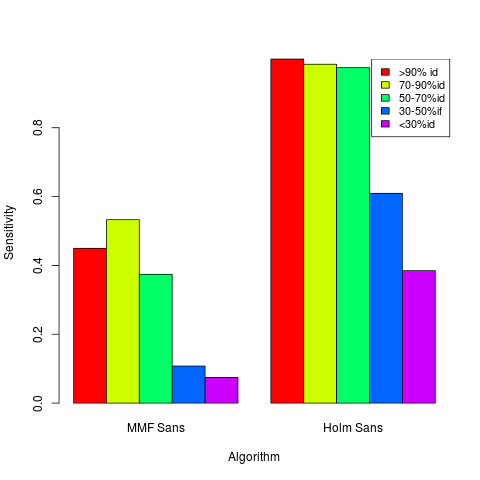
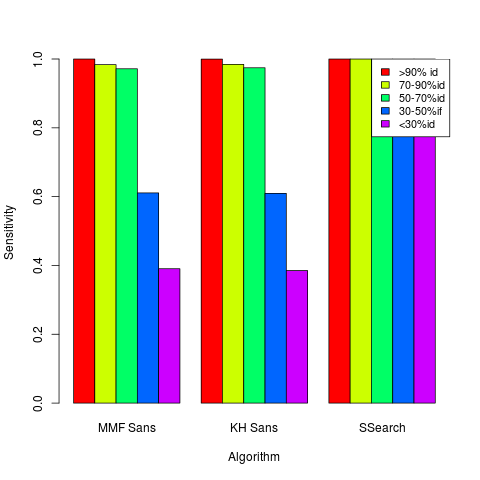
BEHOLD THE BARPLOTS! und Kleinigkeiten...

diff --git a/ausarbeitung.tex b/ausarbeitung.tex
@@ -8,13 +8,14 @@
 \usepackage{amsmath}
 \usepackage{hyperref}
 \usepackage{listings}
+\usepackage[fleqn]{amsmath}
 
 %\usepackage{algorithmic}
 \usepackage{cite}
 
 \setlength{\parindent}{0pt}
 
-\title{Proteinsequenz-Vergleich mit \emph{KSEARCH} und \emph{SANS}}
+\title{Proteinsequenz-Vergleich mit KSEARCH und SANS}
 \author{Meike Bruns, Florian Markowsky, Michael Spohn}
 
 \begin{document}
@@ -22,7 +23,11 @@
 \maketitle
 \thispagestyle{empty}
 \begin{abstract}
-In unserer Projektarbeit beschäftigten wir uns mit der Implementierung zweier Algorithmen zur Ähnlichkeitsbewertung von Proteinsequenzen, \emph{SANS} und \emph{KSEARCH}, innerhalb der GenomeTools Umgebung. Die von J. Patrik Koskinen und Liisa Holm entwickelten Algorithmen weisen Proteinpaaren aufgrund von gemeinsam enthaltenen $k$-meren (\emph{KSEARCH}) bzw. von Nachbarschaften der Proteinsuffixe im Suffixarray (\emph{SANS}) Ähn\-lichkeitsscores zu. Koskinen und Holm erreichten so bei kurzen Laufzeiten eine mit BLAST vergleichbare Sensitivität bei Proteinen mit 50-100\% Sequenzidentität. Unsere Implementierung der Algorithmen liefert mit der Originalimplementierung vergleichbare Ergebnisse, die von Koskinen und Holm erreichten Laufzeiten konnten jedoch nicht reproduziert werden.
+In unserer Projektarbeit haben wir innerhalb der GenomeTools Umgebung  zwei Algorithmen zur Ähnlichkeitsbewertung von Proteinsequenzen implementiert, \emph{SANS} und \emph{KSEARCH}. 
+Die von J. Patrik Koskinen und Liisa Holm entwickelten Algorithmen weisen Proteinpaaren aufgrund von gemeinsam enthaltenen $k$-meren (\emph{KSEARCH}) bzw. von Nachbarschaften der 
+Proteinsuffixe im Suffixarray (\emph{SANS}) Ähn\-lichkeitsscores zu. Koskinen und Holm erreichten so bei kurzen Laufzeiten eine mit BLAST vergleichbare Sensitivität bei 
+Proteinen mit 50-100\% Sequenzidentität. Unsere Implementierung der Algorithmen liefert mit der Originalimplementierung vergleichbare Ergebnisse, die Laufzeiten von Koskinen und 
+Holm konnten jedoch nicht erreicht werden.
 \end{abstract}
 \newpage
 
@@ -34,15 +39,17 @@ In unserer Projektarbeit beschäftigten wir uns mit der Implementierung zweier A
 
 Eine bei der Sequenzanalyse am häufigsten anfallenden Aufgaben ist der Vergleich
 von Sequenzen. 
-Sowohl bei DNA als auch bei Proteinsequenzen geben Sequenzvergleiche Aufschluss über die Ähnlichkeiten von Sequenzen, die dazu herangezogen werden, Verwandschaftsbeziehungen zwischen den einzelnen Sequenzen oder konservierte Regionen zu ermitteln. Bei unbekannten Proteinsequenzen lassen sich so beispielsweise Vorhersagen zur Funktion oder zur Struktur machen. Da exakte Sequenzvergleiche sehr zeitaufwendig sind, wurden verschiedene weniger exakte, dafür schnellere Algorithmen entwickelt.\\
+Sowohl bei DNA als auch bei Proteinsequenzen geben Sequenzvergleiche Aufschluss über die Ähnlichkeiten von Sequenzen, die beispielsweise dazu herangezogen werden, Verwandschaftsbeziehungen 
+zwischen den einzelnen Sequenzen oder konservierte Regionen zu ermitteln. So lassen sich bei unbekannten Proteinsequenzen  Vorhersagen zur Funktion oder zur Struktur machen. 
+Da exakte Sequenzvergleiche sehr zeitaufwendig sind, wurden verschiedene weniger exakte, dafür schnellere Algorithmen entwickelt.\\
 Viele dieser Algorithmen basieren auf Sequenzalignments, wie der FASTA-Al\-gorithmus \cite{FASTA} oder BLAST \cite{BLAST}, der sich als Standard für den Proteinvergleich etabliert hat.
-Andere Algorithmen, wie z.B. USEARCH \cite{USEARCH} berechnen Ähnlichkeiten von Sequenzen dagegen unabhängig von Alignments anhand der Ähnlichkeiten von Feature-Vektoren. 
+Andere Algorithmen, wie z.B. USEARCH \cite{USEARCH}, berechnen Ähnlichkeiten von Sequenzen dagegen unabhängig von Alignments anhand der Ähnlichkeiten von Feature-Vektoren. 
 Feature-Vektoren einer Sequenz können z.B. die in ihr enthaltenen k-mere oder Substrings sein. 
 Um die Ähnlichkeit zweier Sequenzen zu bestimmen, werden ihre Feature-Vektoren verglichen und daraus ein Ähnlichkeits-Score ermittelt.\\
 Während alignmentbasierte Methoden für viele Zwecke eingesetzt werden können, sind Feature-Vektor basierte Scores hauptsächlich in Anwendungsbereichen wie der nearest-neighbor-Analyse vorteilhaft. 
 Dadurch, dass sie ganz ohne Alignment auskommen, sind sie meist sehr schnell und lassen sich daher auch für große Datenmengen gut verwenden. 
 Dass die berechneten Scores keine detaillierten Informationen darüber enthalten,
-wo zwei Sequenzen gleich und wo verschieden sind, ist in nearest-neighbor-Analysen wie z.B. dem Clustering kein Nachteil. 
+in welchen Bereichen zwei Sequenzen gleich und in welchen verschieden sind, ist in nearest-neighbor-Analysen wie z.B. dem Clustering kein Nachteil. 
 Hier ist vor allem von Interesse, dass hohe Scores ein verlässlicher Indikator für eine hohe Ähnlichkeit sind.\\
 Im folgenden stellen wir unsere Implementierung von zwei von J. Patrik Koskinen und Liisa Holm entwickelten Algorithmen - \emph{SANS} (Suffix Array Neighborhood Search) und \emph{KSEARCH} - vor, die Feature-Vektor basierte Scores für Protein-Sequenzpaare ermitteln. Koskinen und Holm erreichten mit \emph{SANS} für Proteinsequenzen, deren Sequenzidentität zwischen 50 und 100\% liegt, eine mit Blast vergleichbare Sensitivität. In Abhängigkeit vom gewählten $k$-Wert konnten mit \emph{KSEARCH} ähnliche Sensitivitätswerte erreicht werden. Dieses Ergebnis ist für die Vergleiche von Proteinsequenzen überraschend, denn wegen der hohen Mutationswahrscheinlichkeiten einzelner Aminosäuren werden in BLAST zur Bestimmung von Ähnlichkeiten zwischen Proteinen Substitutionsmatrizen verwendet, die die Mutationswahrscheinlichkeiten der Aminosäuren in die Ähnlich\-keitsberechnung einbeziehen. 
 Diese Anpassung ist bei den vorgestellten Algorithmen nicht möglich.
@@ -61,18 +68,28 @@ Der in \cite{Holm} vorgestellte \emph{KSEARCH}-Algorithmus ermittelt Ähnlichkei
 mit
 \emph{ $G_k(query)(w)$} = Häufigkeit des Vorkommens des $k$-mers $w$ im query-Protein\\ \\
 
-Um durch kurze Tandem Repeats verursachte, künstlich erhöhte Scores zu vermeiden, werden, wie in \cite{Holm}, $k$-mere, die an 1., 2., und 3., bzw. an 1., 3., und 5. Position dieselben Zeichen enthalten, nicht bei der Berechnung des \emph{KSEARCH}-Scores berücksichtigt.\\
-Koskinen und Holm benutzen zu Berechnung der \emph{KSEARCH} - Scores Suffixarrays, und erreichen so eine theoretische Laufzeitkomplexität von $O(|q_1..q_n| \cdot |d_1..d_n|)$, also in der Gesamtlänge der query- und database-Proteine. Laut Koskinen und Holm liegt der Vorteil der Implementierung mit Suffixarrays darin, dass der Parameter für $k$ frei gewählt werden kann. \\
+Um durch kurze Tandem Repeats verursachte, künstlich erhöhte Scores zu vermeiden, werden, wie in \cite{Holm}, $k$-mere, die an 1., 2., und 3., bzw. an 1., 3., und 5. Position die selben Zeichen enthalten, 
+bei der Berechnung des \emph{KSEARCH}-Scores nicht berücksichtigt.\\
+Koskinen und Holm benutzen zu Berechnung der \emph{KSEARCH} - Scores Suffixarrays, und erreichen so eine theoretische Laufzeitkomplexität von $O(|q_1..q_n| \cdot |d_1..d_n|)$, 
+also linear in der Gesamtlänge der query- und database-Proteine. Laut Koskinen und Holm liegt der Vorteil der Implementierung mit Suffixarrays darin, dass der Parameter für $k$ frei gewählt werden kann. \\
 Mit der q-gram-Distanz existiert bereits ein Modell, dass auf der Idee basiert,
 Sequenzpaaren anhand vom gemeinsamen $k$-meren (bzw. $q$-Worten) Änhnlichkeits\-scores zuzuweisen. 
-Im Gegensatz zum \emph{KSEARCH} Score ergibt sich der Score bei der q-gram-Distanz aus der Summe der Differenzbeträge $|G_q(query)(w) - G_q(database)(w)|$ der Häufigkeiten der $k$-mere im query- und database-Protein. 
+Im Gegensatz zum \emph{KSEARCH} Score ergibt sich der Score bei der q-gram-Distanz aus der Summe der Differenzbeträge $|G_q(query)(w) - G_q(database)(w)|$ der Häufigkeiten der $k$-mere im query- und 
+database-Protein. 
 Bei der q-gram-Distanz konnte durch die Verwendung von $q$-Wort Profilen eine
 Laufzeit von $O(|n|+|m|+\mathcal{A}^q)$ erreicht werden, wobei $|m|$ und $|n|$
-die Längen der Proteine, $\mathcal{A}^q$ die Anzahl der möglichen q-Worte
+die Längen der Proteine und $\mathcal{A}^q$ die Anzahl der möglichen q-Worte
 darstellen \cite{GSA}. Es erschien uns daher sinnvoll, q-Wort-Profile auch für die Berechnung von \emph{KSEARCH}-Scores zu nutzen.\\
-Für das Erstellen eines $k$-mer- bzw. q-Wort-Profils wird jedes mögliche $k$-mer durch einen Integerwert codiert. Ein Array von der Größe $\mathcal{A}^k$ enthält an jeder Position $i$ die Anzahl des dazugehörigen $k$-mers mit dem Integercode $i$, und wird daher mit Null initialisiert. Durch eine geschickte Codierung können die Codes der einzelnen, in der Sequenz enthaltenen $k$-mere in konstanter Zeit ermittelt werden, so dass die Berechnung der $k$-mer-Profile in ${O(|q_1..q_n|)}$ erfolgt. Da der \emph{KSEARCH}-Score zur Bewertung von Proteinsequenzpaaren genutzt werden soll, ergibt sich bei der Verwendung von Arrays zur Speicherung der $k$-mer Profile der erforderliche Speicherplatz von $\mathcal{A}^k = 20^k$ pro Profil. Darüber hinaus sind die Proteinsequenzen relativ kurz, so dass die berechneten $k$-mer Profile nur spärlich besetzt sind. Daher nutzen wir Hashes, um die $k$-mer-Profile zu speichern. \\
-Unsere Implementierung des \emph{KSEARCH}-Algorithmus erhält die durch das GenomeTool encseq encode konkatenierten und komprimierten query- und database-Proteinsequenzen als Eingabe. Mit dem GenomeTools Modul GtKmercodeiterator werden zunächst die $k$-mere jedes query-Proteins extrahiert und mit der GenomeTools Funktion GtHashmap in einem Hash gespeichert.
-Dann wird für jedes database-Protein das $k$-mer-Profil als Hash angelegt und der \emph{KSEARCH}-Score mit allen query-Poteinen ermittelt und ausgegeben. Da das $k$-mer-Profil des database-Proteins nicht noch einmal gebraucht wird, braucht es nicht gespeichert zu werden. Das Berechnen des $k$-mer-Profils eines database-Proteins $d$ geschieht in $O(|d|)$, für alle database-Proteine also in $O(d_1..d_n)$. Dazu kommt die Berechnung der \emph{KSEARCH}-Scores, die, da das $k$-mer Profil als Hash vorliegt, für ein einzelnes Proteinpaar linear in der Anzahl unterschiedlicher $k$-mere im database-Protein $O(kVariety(d))$ ist, für alle Proteinpaare also in $O(|D| \cdot |Q| \cdot kVariety(d))$ liegt. Insgesamt erhalten wir also eine Laufzeitkomplexität von $O(|q_1..q_n|+|d_1..d_n|+|D| \cdot |Q| \cdot kVariety(d))$.
+Für das Erstellen eines $k$-mer- bzw. q-Wort-Profils wird jedes mögliche $k$-mer durch einen Integerwert codiert. Ein Array von der Größe $\mathcal{A}^k$ enthält an jeder Position $i$ die 
+Anzahl des dazugehörigen $k$-mers mit dem Integercode $i$, und wird daher mit Null initialisiert. Durch eine geschickte Codierung können die Codes der einzelnen, in der Sequenz enthaltenen $k$-mere in 
+konstanter Zeit ermittelt werden, so dass die Berechnung der $k$-mer-Profile in ${O(|q_1..q_n|)}$ erfolgt. Da der \emph{KSEARCH}-Score zur Bewertung von Proteinsequenzpaaren genutzt werden soll, 
+ergibt sich bei der Verwendung von Arrays zur Speicherung der $k$-mer Profile der erforderliche Speicherplatz von $\mathcal{A}^k = 20^k$ pro Profil. Darüber hinaus sind die Proteinsequenzen relativ kurz, 
+so dass die berechneten $k$-mer Profile nur spärlich mit Werten ungleich $0$ besetzt sind. Daher nutzen wir Hashes, um die $k$-mer-Profile zu speichern. \\
+Unsere Implementierung des \emph{KSEARCH}-Algorithmus erhält die durch das GenomeTool encseq encode konkatenierten und komprimierten query- und database-Proteinsequenzen als Eingabe. 
+Mit dem GenomeTools Modul GtKmercodeiterator werden zunächst die $k$-mere jedes query-Proteins extrahiert und mit der GenomeTools Funktion GtHashmap in einem Hash gespeichert.
+Dann wird für jedes database-Protein das $k$-mer-Profil als Hash angelegt und der \emph{KSEARCH}-Score mit allen query-Poteinen ermittelt und ausgegeben. 
+Da das $k$-mer-Profil des database-Proteins nicht noch einmal gebraucht wird, braucht es nicht gespeichert zu werden. Das Berechnen des $k$-mer-Profils eines database-Proteins $d$ geschieht in $O(|d|)$, 
+für alle database-Proteine also in $O(|d_1..d_n|)$. Dazu kommt die Berechnung der \emph{KSEARCH}-Scores, die, da das $k$-mer Profil als Hash vorliegt, für ein einzelnes Proteinpaar linear in der Anzahl unterschiedlicher $k$-mere im database-Protein $O(kVariety(d))$ ist, für alle Proteinpaare also in $O(|D| \cdot |Q| \cdot kVariety(d))$ liegt. Insgesamt erhalten wir also eine Laufzeitkomplexität von $O(|q_1..q_n|+|d_1..d_n|+|D| \cdot |Q| \cdot kVariety(d))$.
 
 
 
@@ -91,7 +108,8 @@ Dann wird für jedes database-Protein das $k$-mer-Profil als Hash angelegt und d
         \State output $KSEARCH(d,q)$
       \EndFor \Comment $\mathbf{O(|Q| \cdot kVariety(d))}$
     \EndFor   \Comment $\mathbf{O(|d_1..d_n|+|D| \cdot |Q| \cdot kVariety(d))}$  
-  \EndFunction \Comment overall time complexity: $\mathbf{O(|q_1..q_n|+|d_1..d_n|+|D| \cdot |Q| \cdot kVariety(d))}$
+  \EndFunction 
+  \Comment overall time complexity: $\mathbf{O(|q_1..q_n|+|d_1..d_n|+|D| \cdot |Q| \cdot kVariety(d))}$
 \end{algorithmic}
 \end{algorithm}
 
@@ -100,7 +118,7 @@ Dann wird für jedes database-Protein das $k$-mer-Profil als Hash angelegt und d
 
 Der \emph{SANS}-Algorithmus bewertet Proteinpaare, deren Suffixe längste gemeinsame
 Präfixe haben, mit einem positiven Score. Suffixarrays haben die Eigenschaft,
-dass Suffixe, die im Suffixarray nebeneinanderliegen, typischerweise lange
+dass Suffixe, die darin nebeneinanderliegen, typischerweise lange
 gemeinsame Präfixe haben. Für die  \emph{SANS}-Scores wird diese Eigenschaft dahingehend
 genutzt, dass Proteinpaare von query- und database-Proteinen, deren Suffixe im
 Suffixarray nahe beieinander liegen, mit einem hohen Score bewertet werden.\\
@@ -124,9 +142,9 @@ Formal berechnet sich der \emph{SANS(query,database)} also folgendermaßen:\\
 \end{equation*}
 
 mit\\
-\emph{suffixe\_q} - alle Suffixe aus $q$,\\
-\emph{position$_D$(s)} - theoretische Position des Suffixes $s$ in \emph{Suffixarray$_D$} \\
-\emph{Suffixarray$_D[x]$.protein} - database-Protein, zu dem der Suffix an der Position $x$ des \emph{Suffixarray$_D$} gehört. \\
+\hspace{1pc} \emph{suffixe\_q} - alle Suffixe aus $q$,\\
+\hspace{1pc} \emph{position$_D$(s)} - theoretische Position des Suffixes $s$ in \emph{Suffixarray$_D$} \\
+\hspace{1pc} \emph{Suffixarray$_D[x]$.protein} - database-Protein, zu dem der Suffix an der Position $x$ des \emph{Suffixarray$_D$} gehört. \\
 
 und der Identitätsfunktion\\
 
@@ -135,7 +153,7 @@ id(a,b)=\begin{cases}
   1,  & if~a=b\\
   0,  & if~a\ne b\\
 \end{cases}
-\end{equation*}
+\end{equation*}.
 
 Auch bei der Berechnung des \emph{SANS}-Scores werden Suffixe, die an 1., 2., und 3., bzw. an 1., 3., und 5. Position dieselben Zeichen enthalten, nicht bei der Berechnung des Scores berücksichtigt, um eine künstliche Erhöhung des Scores durch kurze Tandem Repeats zu vermeiden.\\
 Koskinen und Holm setzen die Fenstergröße $h$ standardmäßig auf die Größe der als
@@ -152,10 +170,10 @@ Die Suffixarrays stellen die Eingabe für unseren  \emph{SANS}-Algorithmus dar.
 Da die endgültigen Scores erst feststehen, wenn alle Suffixe im
 \emph{Suffixarray$_Q$}
 verarbeitet wurden, muss zur Ermittelung der Scores eine Scorematrix der Größe
-$|Q|\cdot|D|$ angelegt und mit Null initialisiert werden, wobei $|Q|$ die Anzahl
-der query-, $|D|$ die Anzahl der database-Proteine beschreibt. Dies benötigt
+$|Q|\cdot|D|$ angelegt, mit Null initialisiert und im Speicher gehalten werden, wobei $|Q|$ die Anzahl
+der query- und $|D|$ die Anzahl der database-Proteine beschreibt. Dies benötigt
 $O(|Q|\cdot|D|)$ Zeit. Jetzt ermitteln wir die Positionen der Suffixe
-i\emph{Suffix$_{qx}$} in \emph{Suffixarray$_D$}. Dazu laufen wir einmal durch
+\emph{Suffix$_{qx}$} in \emph{Suffixarray$_D$}. Dazu laufen wir einmal durch
 den gesamten \emph{Suffixarray$_Q$}. Da die Suffixe in den Suffixarrays
 lexikographisch geordnet sind, brauchen wir nicht für jeden \emph{Suffix$_{qx}$}
 durch den gesamten \emph{Suffixarray$_D$} zu laufen, sondern können mit der
@@ -164,7 +182,7 @@ der wir auch \emph{Suffix$_{qx-1}$} eingeordnet haben. Diese Position merken wir
 uns in der Variablen \emph{position}. Damit laufen wir einmal durch den gesamten
 \emph{Suffixarray$_Q$} sowie insgesamt genau einmal durch den gesamten
 \emph{Suffixarray$_D$} und bleiben so in $O(|q_0..q_n| + |d_0..d_n|)$.
-Zusätzlich müssen immer, wenn wir eine Position gefunden haben, die Scores $2
+Zusätzlich müssen immer, wenn wir eine Position gefunden haben, die Scores von $2
 \cdot h$ Proteinpaaren in konstanter Zeit aktualisiert werden, so dass sich für
 die Berechnung der Scores eine Laufzeit von ${O(|q_0..q_n|\cdot2h +
 |d_0..d_n|)}$ ergibt. Zusammen erhalten wir also eine Laufzeitkomplexität von ${O(|q_0..q_n|\cdot2h + |d_0..d_n|+|Q|\cdot|D|)}$
@@ -185,7 +203,8 @@ die Berechnung der Scores eine Laufzeit von ${O(|q_0..q_n|\cdot2h +
          \State update SANS-scores for  $(q_x,d_x)$
        \EndFor \Comment $\mathbf{O(2h)}$
      \EndFor \Comment $\mathbf{O(|q_0..q_n|\cdot2h + |d_0..d_n|)}$
-    \EndFunction  \Comment{overall time complexity:$\mathbf{O(|q_0..q_n|\cdot2h + |d_0..d_n|+|Q|\cdot|D|)}$}   \\
+    \EndFunction  
+    \Comment{overall time complexity:$\mathbf{O(|q_0..q_n|\cdot2h + |d_0..d_n|+|Q|\cdot|D|)}$}   \\
     
     \Function{findPosition}{$suffix$, $suffixarray_D$, $position$}
       \For{$i$ in $position$..$suffixarray_D$.length}
@@ -201,8 +220,9 @@ die Berechnung der Scores eine Laufzeit von ${O(|q_0..q_n|\cdot2h +
 
 \subsubsection{GenomeTools}
 
-Die GenomeTools sind eine freie Sammlung von Tools, Klassen und Modulen zum
-Analysieren von Genomen und zur Entwicklung weiterer Programme zur Genomanalyse \cite{gtools}. Wir implementierten die Algorithmen \emph{SANS} und \emph{KSEARCH} innerhalb der GenomeTools-Umgebung und nutzten dabei folgende der durch GenomeTools bereitgestellten Funktionalitäten:
+Die GenomeTools sind eine freie Sammlung von Tools, Klassen und Modulen zur
+Analyse von Genomen und zur Entwicklung weiterer Programme zur Genomanalyse \cite{gtools}. 
+Wir haben die Algorithmen \emph{SANS} und \emph{KSEARCH} innerhalb der GenomeTools-Umgebung implementiert und dabei folgende der durch GenomeTools bereitgestellten Funktionalitäten genutzt:
 
 \paragraph{GtToolbox}
 Die GtToolbox ist eine Klasse, die die einzelne Tools enthält. Sie besitzt
@@ -220,7 +240,9 @@ Je nachdem, welche Funktionalitäten für ein GtEncseq-Objekt gewünscht werden,
 Der GtKmercodeiterator ist eine Klasse, deren Instanzen unter anderem ein GtEncseq-Objekt, eine Startposition und eine Länge für $k$ erhalten. Mit den Klassenfunktionen \emph{gt\_kmercodeiterator\_encseq\_next()} wird das jeweils nächste $k$-mer der GtEncseq als GtKmercode zurückgegeben. Wir benutzen diese Funktionalität, um die $k$-mer-Hashes für den \emph{KSEARCH}-Algorithmus zu erstellen.
 
 \paragraph{GtRankedList und GtRankedListIter}
-Die Instanzen der GtRankedList-Klasse sind dynamische Listen fester Größe. In ihnen wird gewährleistet, dass die gespeicherten Objekte in der Liste jeweils die mit dem höchsten Rang sind. Die Größe der Liste sowie die Vergleichsfunktion zur Ermittlung des Ranges sind Klassenvariablen der GtRankedList, zur Eingabe von Objekten in die GtRankedList gibt es eine Klassenfunktion. Um alle in einerGtRankedList gespeicherten Objekte auszugeben, wird die GtRankedList an ein Objekt der Klasse GtRankedListIter übergeben.
+Die Instanzen der GtRankedList-Klasse sind dynamische Listen fester Größe. In ihnen wird gewährleistet, dass die gespeicherten Objekte in der Liste jeweils die mit dem höchsten Rang sind. 
+Die Größe der Liste sowie die Vergleichsfunktion zur Ermittlung des Ranges sind Klassenvariablen der GtRankedList, zur Eingabe von Objekten in die GtRankedList gibt es eine Klassenfunktion. 
+Um alle in einerGtRankedList gespeicherten Objekte auszugeben, wird die GtRankedList an einen Iterator der Klasse GtRankedListIter übergeben.
 
 \paragraph{GtHashmap}
 Die Objekte der GtHashmap-Klasse sind Hashtables. Wir benutzen sie, um die $k$-mer
@@ -234,15 +256,21 @@ Der GtSuffixerator ist ein Tool, das aus einer Sequenzdatei oder einem GtEncseq-
 
 \subsubsection{Struktur}
 
-Wir implementierten die Algorithmen für den \emph{SANS}- und den \emph{KSEARCH}-Score als zwei Tools \emph{gt\_seqscore\_sans.c} und \emph{gt\_seqscore\_ksearch.c} innerhalb der Toolbox \emph{gt\_seqscore} und erhalten so eine logische Trennung. Um Code-Redundanzen zu vermeiden, greifen beide Tools auf eine gemeinsame Codebasis zu, die in \emph{bla\_seqscore.c} implementiert ist. Der Aufruf der Tools erfolgt über die Konsole in der GenomeTools Umgebung und enthält die Toolbox, das Tool, die Namen der zu vergleichenden Encseq-Sequenzen, die Ausgabeoption sowie die Länge der $k$-mere $k$ (\emph{KSEARCH}) bzw. die Fensterweite $h$ (\emph{SANS}) optional kann eine Ausgabedatei angegeben werden.
+Wir implementierten die Algorithmen für den \emph{SANS}- und den \emph{KSEARCH}-Score als zwei Tools \emph{gt\_seqscore\_sans.c} und \emph{gt\_seqscore\_ksearch.c} innerhalb der Toolbox \emph{gt\_seqscore} und erhalten so eine logische Trennung. Um Code-Redundanzen zu vermeiden, greifen beide Tools auf eine gemeinsame Codebasis zu, die in \emph{bla\_seqscore.c} implementiert ist. 
+Der Aufruf der Tools erfolgt über die Konsole in der GenomeTools Umgebung und enthält die Toolbox, das Tool, die Namen der zu vergleichenden Encseq-Sequenzen, die 
+Ausgabeoption sowie die Länge der $k$-mere $k$ (\emph{KSEARCH}) bzw. die Fensterweite $h$ (\emph{SANS}). Optional kann der Dateiname für eine Ausgabedatei angegeben werden.
 %TODO Default-Werte?
-Für beide Tools gibt es drei Ausgabeoptionen, \emph{-matrix}, \emph{-nbest x} und \emph{-threshold x}. Wenn die Option \emph{-matrix} gewählt wird, werden die Scores aller Proteinpaare ausgegeben, bei der Option \emph{-nbest x} nur die $x$ Paare mit den besten Scores, und bei \emph{-threshold x} alle Paare, deren Score größer oder gleich $x$ ist. \\
-Je nachdem, welche Ausgabeoption gewählt wurde, wird in der Runner-Funktion des jeweiligen Tools eine passende Datenstruktur erstellt. Für die \emph{-matrix} Option ist das eine Matrix der Größe $|Q|\cdot|D|$ und für die \emph{-nbest} Option eine GtRankedList. Bei der \emph{-threshold} Option dagegen können die Ergebnisse direkt ausgegeben werden, so dass keine Speicherstruktur angelegt werden muss. Durch den Aufruf eines eintsprechenden Konstruktors aus \emph{bla\_seqscore.c} werden die Strukturen dann gefüllt, so dass für jedes Tool drei verschiedene Konstruktoren existieren:
+Für beide Tools gibt es drei Ausgabeoptionen, \emph{-matrix}, \emph{-nbest x} und \emph{-threshold x}. Wenn die Option \emph{-matrix} gewählt wird, werden die Scores aller Proteinpaare ausgegeben, 
+bei der Option \emph{-nbest x} nur die $x$ Paare mit den besten Scores, und bei \emph{-threshold x} alle Paare, deren Score größer oder gleich $x$ ist. \\
+Je nachdem, welche Ausgabeoption gewählt wurde, wird in der Runner-Funktion des jeweiligen Tools eine passende Datenstruktur erstellt. 
+Für die \emph{-matrix} Option ist das eine Matrix der Größe $|Q|\cdot|D|$ und für die \emph{-nbest} Option eine GtRankedList. 
+Bei der \emph{-threshold} Option dagegen können die Ergebnisse direkt ausgegeben werden, so dass keine Speicherstruktur angelegt werden muss. 
+Durch den Aufruf eines eintsprechenden Konstruktors aus \emph{bla\_seqscore.c} werden die Strukturen dann gefüllt, so dass für jedes Tool drei verschiedene Konstruktoren existieren:
 \emph{gt\_seqscore\_result\_matrix\_new} für die \emph{-matrix} Option, \emph{gt\_seqscore\_ranked\_list\_new} für die \emph{-nBest} Option und \emph{gt\_seqscore\_threshold\_new} für die \emph{-treshold} Option.
 Für die Berechnung der Scores wurde für jeden Algorithmus nur jeweils eine Funktion implementiert, \emph{gt\_calculate\_results\_sans} und \emph{gt\_enumerate\_results\_ksearch}. 
 Jeder der drei Konstruktoren eines Tools greift für die Berechnung der Scores auf die jeweilige Funktion zu.\\
-Da bei der Berechnung der \emph{SANS}-Scores wie in \ref{sans} erläutert die gesamte Score-Matrix bis zum Ende des Algorithmus mitgeführt werden muss, werden in den Kon\-struktoren \emph{gt\_seqscore\_result\_matrix\_new\_sans()}, \emph{gt\_seqscore\_nbest\_new\_sans()} und  \emph{gt\_seqscore\_threshold\_new\_sans()} zunächst Ergebnismatrizen angelegt und der entsprechende Speicherplatz von $|Q|\cdot|D|$ alloziert. Die Matrizen werden mit einem Aufruf von \emph{calculate\_results\_sans()} gefüllt und anschließend dem Konstruktoraufruf entsprechend aufbereitet. So gibt der \emph{matrix}-Konstruktor die gesamte Matrix zurück, während im \emph{nbest}-Konstruktor aus den Scores in der Matrix eine GtRankedList der $x$ besten Scores und der dazugehörigen Sequenzen erstellt wird, und im \emph{threshold}-Konstruktor alle Sequenzpaare, deren Score über dem gegebenen Schwellwert liegt, direkt ausgegeben werden.\\
-Wie in Abschnitt \ref{ksearch} ersichtlich, werden beim \emph{KSEARCH}-Algorithmus die Scores der Sequenzpaare nacheinander berechnet, so dass Speicherplatz gespart werden kann. Nur wenn der Benutzer die \emph{-matrix} Rückgabe gewählt hat, muss also tatsächlich der Speicher für die ganze Ergebnismatrix alloziert werden. Daher werden in den Konstruktoren \emph{gt\_seqscore\_result\_matrix\_new\_ksearch()},\linebreak \emph{gt\_seqscore\_nbest\_new\_ksearch()} und  \emph{gt\_seqscore\_threshold\_new\_ksearch()} ausgabespezifische Ergebnisstrukturen erstellt und mit einer strukturspezifischen Call\-back-Funktion an 
+Da bei der Berechnung der \emph{SANS}-Scores wie in \ref{sans} erläutert die gesamte Score-Matrix bis zum Ende des Algorithmus mitgeführt werden muss, werden in den Kon\-struktoren \emph{gt\_seqscore\_result\_matrix\_new\_sans()}, \emph{gt\_seqscore\_nbest\_new\_sans()} und  \emph{gt\_seqscore\_threshold\_new\_sans()} zunächst Ergebnismatrizen angelegt und der entsprechende Speicherplatz von $|Q|\cdot|D|$ allokiert. Die Matrizen werden mit einem Aufruf von \emph{calculate\_results\_sans()} gefüllt und anschließend dem Konstruktoraufruf entsprechend aufbereitet. So gibt der \emph{matrix}-Konstruktor die gesamte Matrix zurück, während im \emph{nbest}-Konstruktor aus den Scores in der Matrix eine GtRankedList der $x$ besten Scores und der dazugehörigen Sequenzen erstellt wird, und im \emph{threshold}-Konstruktor alle Sequenzpaare, deren Score über dem gegebenen Schwellwert liegt, direkt ausgegeben werden.\\
+Wie in Abschnitt \ref{ksearch} ersichtlich, werden beim \emph{KSEARCH}-Algorithmus die Scores der Sequenzpaare nacheinander berechnet, so dass Speicherplatz gespart werden kann. Nur wenn der Benutzer die \emph{-matrix} Rückgabe gewählt hat, muss also tatsächlich der Speicher für die ganze Ergebnismatrix allokiert werden. Daher werden in den Konstruktoren \emph{gt\_seqscore\_result\_matrix\_new\_ksearch()},\linebreak \emph{gt\_seqscore\_nbest\_new\_ksearch()} und  \emph{gt\_seqscore\_threshold\_new\_ksearch()} ausgabespezifische Ergebnisstrukturen erstellt und mit einer strukturspezifischen Call\-back-Funktion an 
 die \emph{enumerate\_results\_ksearch()} Funktion übergeben. Diese berechnet sequentiell die Scores und schreibt sie mittels der Callback-Funktion in die übergebene Struktur. Falls das Tool mit der \emph{-threshold} Option aufgerufen wurde, ist das Übergeben einer Ergebnisstruktur nicht notwendig. Die Ergebnisse werden dann durch die Callback-Funktion direkt ausgegeben. Die Abläufe eines \emph{KSEARCH} Aufrufs sind in den Sequenzdiagrammen \ref{manbes} und \ref{thresh} für die Optionen \emph{-nbest} und \emph{-threshold} verdeutlicht. \\
 
 \begin{center}
@@ -294,7 +322,9 @@ konnten in unserer Implementierung nicht erreicht werden (Tab. \ref{runtimes}), 
 Bei \emph{KSEARCH} ist dies nicht der Fall. Ist die Laufzeit hier bei kleinen Test-Datensätzen noch vertretbar, steigt sie auf unserem realitätsnahen
 Testdatensatz von 1083 Rattus-Proteinen mit der Swissprot Datenbank auf über 500 Minuten, was unsere \emph{KSEARCH} Implementierung für den praktischen Einsatz ungeeignet macht. Dabei wird der größte Teil der Zeit für Zugriffe auf den Hashtable aufgewendet (siehe Abschnitt \ref{ksearch}). Dies ist insofern nicht
 überraschend, als wir uns aufgrund des massiven Speicherplatzbedarfs unserer ursprünglichen Implementierung für einen geringeren
-Speicherplatzverbrauch entschieden, dafür jedoch bewusst Geschwindigkeitseinbußen in Kauf genommen haben. Diese Einbußen waren jedoch notwendig, da der Hauptspeicher des Testrechners (Tab. \ref{runtimes}) nicht ausgereicht hätte, um KSEARCH mit den angestrebten Testdateien laufen zu lassen. Mit kleineren Datensätzen wurden allerdings kompetitive Laufzeiten erreicht.
+Speicherplatzverbrauch entschieden, dafür jedoch bewusst Geschwindigkeitseinbußen in Kauf genommen haben. 
+Diese Einbußen waren jedoch notwendig, da der Hauptspeicher des Testrechners (Tab. \ref{runtimes}) nicht ausgereicht hätte, um KSEARCH mit den angestrebten Testdateien laufen zu lassen. 
+Mit kleineren Datensätzen wurden allerdings kompetitive Laufzeiten erreicht.
  
 
 Der implementierte \emph{SANS}-Algorithmus benötigt lange für die Erstellung der Suffix-Arrays, zeigt jedoch bei zunehmender Fensterbreite \textit h eine weniger stark ansteigende Laufzeit als der Referenzalgorithmus.  Im Vergleich mit SSEARCH bzw. BLAST,  zeigten alle Algorithmen, ausser der bereits erwähnten Ausnahme, signifikant schnellere Laufzeiten.
@@ -334,16 +364,27 @@ Sequenzpaare dabei. Generell konnten wir beobachten, das die gleichen Testsets n
 Abweichungen, die wir hier feststellen konnten, waren jedoch relativ zum gesamten Score gering.
 Abhängig von der gewählten Implementierung unterscheiden sich die berechneten Scores geringfügig,  da in Koskinen und Holm  \cite{Holm} einige Implementierungsdetails nicht erschöpfend und nachvollziehbar beschrieben wurden,
 und so an einigen Stellen eigene Entscheidungen getroffen werden mussten. Als Beispiel ist die Sortierung der Aminosäuren von Proteinsequenzen
-zu nennen. Hier ist sowohl eine rein lexikographische als auch eine nach biologischen Kriterien vorgenommene Sortierung denkbar. Letztere ist in den GenomeTools \cite{gtools} bei der Erstellung von Suffixarrays als Standard festgelegt. Aus unterschiedlichen
-Sortierungen resultieren dabei unterschiedliche Suffixarrays, was zu verschiedenen Scores führt. Aufgrund des Codes von Koskinen und Holm gehen wir davon aus, dass in der Referenzimplementierung eine lexikographische Sortierung gewählt wurde. 
+zu nennen. Hier ist sowohl eine rein lexikographische als auch eine nach biologischen Kriterien vorgenommene Sortierung denkbar. Letztere ist in den GenomeTools \cite{gtools} bei der Erstellung von Suffixarrays als Standard festgelegt. 
+Aus unterschiedlichen
+Sortierungen resultieren dabei unterschiedliche Suffixarrays, was zu verschiedenen Scores führt. 
+Aufgrund des Codes von Koskinen und Holm gehen wir davon aus, dass in der Referenzimplementierung eine lexikographische Sortierung gewählt wurde.
 Weiterhin wurde, basierend auf der in \cite{Holm} durchgeführten Auswertung, die Sensitivität beider Implementierungen verglichen. Dazu wurden zunächst mit SSEARCH auf den Rattus Query
-Sequenzen mit der Swissprot Datenbank die besten $1000$ Treffer pro Queryprotein ermittelt. Anschließend wurden diese Referenzergebnisse in den besten $1000$ Treffern pro query-Protein der beiden SANS-Algorithmen gesucht, um die true positives festzustellen. Wie in \cite{Holm} erfolgte eine Aufteilung in Identitätsklassen. Abbildung \ref{barplot} zeigt, dass beide Implementierungen eine vergleichbare Sensitivität erreichen.
+Sequenzen mit der Swissprot Datenbank die besten $1000$ Treffer pro Queryprotein ermittelt. 
+Anschließend wurden diese Referenzergebnisse in den besten $1000$ Treffern pro query-Protein der beiden SANS-Algorithmen gesucht, um die true positives festzustellen. 
+Wie in \cite{Holm} erfolgte eine Aufteilung in Identitätsklassen. Abbildung \ref{barplot} zeigt, dass beide Implementierungen eine vergleichbare Sensitivität erreichen, wobei die
+unserer eigenen Implementierung bei Sequenzidentität von mehr als $90\%$ geringfügig höher liegt als die von Koskinen und Holm, in den Identiätsklassen von $50-70$ und $70-90\%$ leicht darunter. 
+Die Sensitivitäten beider Algorithmen liegen zwischen $0.972$ und $0.999$.
+Die minimalen Unterschiede von höchstens $0.03$ können verschiedene Gründe haben, hängen jedoch wahrscheinlich mit Implementierungsdetails
+oder -fehlern zusammen. So wird beispielsweise in der Koskien und Holm Implementierung das letzte query-Protein grundsätzlicht nicht berücksichtigt, was sich auf die Scores auswirkt.
+Unsere Analysen haben ergeben, dass diese Sensitivität durch die Nutzung der
+GenomeTools-internen Sortierung der Aminosäuren anstelle der lexikographischen Ordnung noch geringfügig erhöht werden kann (siehe Abbildung \ref{barplot_sup} im Anhang).
 
 \begin{figure}[h]
   \begin{center}
     \includegraphics[width=0.6\textwidth]{img/barplot_beide.png}
-    \caption{Sensitivität des selbst implementierten \emph{SANS}-Algorithmus und dem aus \cite{Holm}. Als Referenz dienen SSearch-Alignments.
-    Die Treffer sind nach Identität der Sequenzpaare eingeteilt.}
+    \caption{Sensitivität des selbst implementierten \emph{SANS}-Algorithmus, links, dem aus \cite{Holm}, mitte, und von SSearch. 
+      Da die SSearch-Ergebnisse als Referenz dienen, beträgt ihre Sensitivität stets $1$.
+      Die Treffer sind nach Identität der Sequenzpaare eingeteilt.}
     \label{barplot}
   \end{center}
 \end{figure}
@@ -351,7 +392,7 @@ Sequenzen mit der Swissprot Datenbank die besten $1000$ Treffer pro Queryprotein
 \subsubsection{Area under the curve (AUC)}
 
 
-Um die Effizienz eines Algorithmus zu ermitteln, wird ein precision-recall-Diagramm erstellt, und daraus die AUC berechnet. Die AUC ist die Fläche unter der Kurve, also das Integral. Das precision-recall-Diagramm erhält man, indem Präzision (precision) $p$ gegen die Wiederfindungsrate (recall) $r$ geplottet wird. Beide Werte werden errechnet, indem als erstes eine Liste \textit l mit einem Referenz-Algorithmus erstellt, und anschließend anhand dieser Liste \textit p und \textit r des zu testenden Algorithmus ermittelt werden.\\In Liste \textit l wurden alle SSEARCH-Treffer aus dem Query-Datensatz, welche einen e-Value niedriger als eins aufwiesen, eingetragen. Anschließend wurde mit den bestem 1000 Treffern \textit t jedes Query-Proteins Präzision (precision) $p = \frac{t_0 ... t_i \in l}{t_0 ... t_i}$ und Wiederfindungsrate (recall) $r = \frac {t_0 ... t_i \in l}{t \in l}$ berechnet und das precision-recall-Diagramm erstellt. Dabei gibt die Wiederfindungsrate \textit r an, wie viele der richtigen Treffer von \textit t zum Zeitpunkt \textit i bereits gefunden wurden. Die Präzision \textit p gibt die Anzahl der richtigen Treffer, im Verhältnis zu allen zum Zeitpunkt \textit i bereits betrachteten Treffern, an. Da \textit p und \textit r Werte zwischen 0 und 1 annehmen, hat die AUC im besten Fall den Wert 1. Im Allgemeinen nimmt mit zunehmender Wiederfindungsrate die Präzision ab, da bei einem kleinen AUC-Wert viele false positives auftreten, bis die maximale Anzahl aller richtigen Treffer ermittelt ist. Je kleiner also der Wert für AUC, desto ineffizienter ist der Algorithmus.\\Zu beachten ist, dass beim Plotten von \textit p gegen \textit r nur ein Punktdiagramm entsteht. Die darin enthaltenen Punkte können nicht interpoliert werden, wodurch die Kurve für die AUC nur näherungsweise bestimmt werden kann.\\Die Ergebnisse sind in Tab. 2 veranschaulicht. Es wurde für jedes der 1083 query-Proteine eine AUC erstellt, und aus diesen ein Durchschnittswert berechnet. Die Werte aus \cite{Holm} konnten bestätigt werden.
+Um die Effizienz eines Algorithmus zu ermitteln, wird ein precision-recall-Diagramm erstellt und daraus die AUC berechnet. Die AUC ist die Fläche unter der Kurve, also das Integral. Das precision-recall-Diagramm erhält man, indem Präzision (precision) $p$ gegen die Wiederfindungsrate (recall) $r$ geplottet wird. Beide Werte werden errechnet, indem als erstes eine Liste \textit l mit einem Referenz-Algorithmus erstellt, und anschließend anhand dieser Liste \textit p und \textit r des zu testenden Algorithmus ermittelt werden.\\In Liste \textit l wurden alle SSEARCH-Treffer aus dem Query-Datensatz, welche einen e-Value niedriger als eins aufwiesen, eingetragen. Anschließend wurde mit den bestem 1000 Treffern \textit t jedes Query-Proteins Präzision (precision) $p = \frac{t_0 ... t_i \in l}{t_0 ... t_i}$ und Wiederfindungsrate (recall) $r = \frac {t_0 ... t_i \in l}{t \in l}$ berechnet und das precision-recall-Diagramm erstellt. Dabei gibt die Wiederfindungsrate \textit r an, wie viele der richtigen Treffer von \textit t zum Zeitpunkt \textit i bereits gefunden wurden. Die Präzision \textit p gibt die Anzahl der richtigen Treffer, im Verhältnis zu allen zum Zeitpunkt \textit i bereits betrachteten Treffern, an. Da \textit p und \textit r Werte zwischen 0 und 1 annehmen, hat die AUC im besten Fall den Wert 1. Im Allgemeinen nimmt mit zunehmender Wiederfindungsrate die Präzision ab, da bei einem kleinen AUC-Wert viele false positives auftreten, bis die maximale Anzahl aller richtigen Treffer ermittelt ist. Je kleiner also der Wert für AUC, desto ineffizienter ist der Algorithmus.\\Zu beachten ist, dass beim Plotten von \textit p gegen \textit r nur ein Punktdiagramm entsteht. Die darin enthaltenen Punkte können nicht interpoliert werden, wodurch die Kurve für die AUC nur näherungsweise bestimmt werden kann.\\Die Ergebnisse sind in Tab. 2 veranschaulicht. Es wurde für jedes der 1083 query-Proteine eine AUC erstellt, und aus diesen ein Durchschnittswert berechnet. Die Werte aus \cite{Holm} konnten bestätigt werden.
 
 
   \begin{table}[h]
@@ -375,5 +416,15 @@ Um die Effizienz eines Algorithmus zu ermitteln, wird ein precision-recall-Diagr
 \section{Anhang}
 \subsection*{bla\_seqscore.h}
 \lstinputlisting{bla_seqscore.h}
+\subsection{Sensitivitätsvergleich sortierungsabhängig}
+\begin{figure}[h]
+  \begin{center}
+    \includegraphics[width=0.6\textwidth]{img/barplot_gtsort.png}
+    \caption{Sensitivität des selbst implementierten \emph{SANS}-Algorithmus bei Nutzung der GenomeTools internen Sortierung der Aminosäuren und dem aus \cite{Holm} mit lexikographischer
+      Sortierung.} 
+    \label{barplot_sup}
+  \end{center}
+\end{figure}
+
 
 \end{document}

diff --git a/bla_seqscore.h b/bla_seqscore.h
@@ -85,7 +85,7 @@ GtSeqScoreResultMatrix gt_seqscore_result_matrix_new_sans(Suffixarray suf_q,
                                                           Suffixarray suf_s,
                                                           unsigned int h,
                                                           GtError* err);
-/* Returns a <GtSeqScoreResultMatrix> containing all iKSEARCH scores of
+/* Returns a <GtSeqScoreResultMatrix> containing all KSEARCH scores of
    sequences of query <suf_q> and database <suf_s>. The wordsize for the k-mer
    profiles is <k>. Returns NULL on error, <err> is set accordingly.*/
 GtSeqScoreResultMatrix gt_seqscore_result_matrix_new_ksearch(
